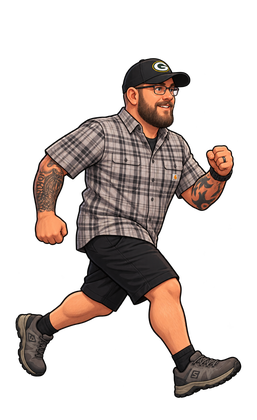
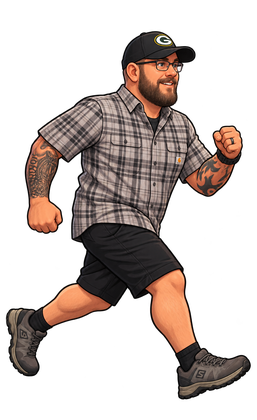
Scale Josh and Tyler consistently with original roster

Changed region(s): [[0.0, 0.0619, 0.9961, 0.9595]]

diff --git a/game.js b/game.js
@@ -28,7 +28,7 @@
   function updateCharacterCards(){document.querySelectorAll('.character-card').forEach(card=>{const id=card.dataset.character,locked=!canSelect(id),status=card.querySelector('.character-status');card.disabled=locked;card.classList.toggle('locked',locked);card.setAttribute('aria-disabled',String(locked));if(locked){card.setAttribute('aria-label',`${id==='josh'?'Josh Lane':'Tyler'}, locked. ${id==='josh'?'Defeat the final boss to unlock.':'Win the final boss stage twice to unlock.'}`);if(status)status.textContent=id==='josh'?'🔒 Beat the final boss':'🔒 Win the final twice'}else{card.setAttribute('aria-label',`Choose ${id==='josh'?'Josh Lane':id[0].toUpperCase()+id.slice(1)}`);if(status)status.textContent='Unlocked & ready'}})}
   function awardBossVictory(bossId='boss1'){if(bossId!=='boss1')return null;unlocks.boss1Wins=Math.min(999,unlocks.boss1Wins+1);const rule=unlockConfig.rules.find(item=>item.bossId===bossId&&item.victory===unlocks.boss1Wins&&!unlocks[item.character]);if(rule){unlocks[rule.character]=true;pendingUnlock=rule.character;writeUnlocks(unlocks);updateCharacterCards();return rule}writeUnlocks(unlocks);return null}
   function showMenu(){running=false;updateCharacterCards();const prompt=document.getElementById('unlock-prompt');if(pendingUnlock){const name=pendingUnlock==='josh'?'Josh Lane':'Tyler';prompt.textContent=`${name} is unlocked — choose your new Safety Bro!`;prompt.hidden=false;pendingUnlock=''}else prompt.hidden=true;show('menu')}
-  function load(){characters.forEach(c=>poses.forEach(p=>{const img=new Image();img.src=`${c}-${p}.png?v=${c==='josh'||c==='tyler'?10:4}`;assets[`${c}-${p}`]=img}));const boss=new Image();boss.src='boss-final-intruder.png?v=7';assets.boss=boss;updateCharacterCards()}
+  function load(){characters.forEach(c=>poses.forEach(p=>{const img=new Image();img.src=`${c}-${p}.png?v=${c==='josh'||c==='tyler'?11:4}`;assets[`${c}-${p}`]=img}));const boss=new Image();boss.src='boss-final-intruder.png?v=7';assets.boss=boss;updateCharacterCards()}
   levels.forEach((stage,i)=>{stage.powerups=[{x:Math.min(stage.width-650,1180+i*170),y:315,type:i%2?'hardhat':'shield',got:false}];stage.secrets=i<3?[{x:Math.min(stage.width-900,2480+i*260),y:500,w:115,h:100,found:false}]:[]});
   function fresh(src){return {...src,platforms:src.platforms.map(x=>({...x})),movingPlatforms:(src.movingPlatforms||[]).map(x=>({...x})),radios:src.radios.map(x=>({...x,got:false})),hazards:src.hazards.map(x=>({...x})),enemies:src.enemies.map(x=>({...x,alive:true})),vests:src.vests.map(x=>({...x,got:false})),powerups:(src.powerups||[]).map(x=>({...x,got:false})),secrets:(src.secrets||[]).map(x=>({...x,found:false})),boss:src.boss?{...src.boss,alive:true,hp:src.boss.maxHp,shotTimer:1.5}:null,projectiles:[],exit:{...src.exit}}}
   function sizePlayer(big,keepFeet=true){const feet=player.y+player.h;player.big=big;player.w=big?92:66;player.h=big?150:105;if(keepFeet)player.y=feet-player.h}

diff --git a/index.html b/index.html
@@ -41,11 +41,11 @@
           <strong>NICK</strong><small>Quick &amp; Alert</small>
         </button>
         <button class="character-card locked" data-character="josh" disabled aria-disabled="true" aria-label="Josh Lane, locked. Defeat the final boss to unlock.">
-          <img src="josh-idle.png?v=10" alt="Josh Lane game character">
+          <img src="josh-idle.png?v=11" alt="Josh Lane game character">
           <strong>JOSH LANE</strong><small class="character-status">🔒 Beat the final boss</small>
         </button>
         <button class="character-card locked" data-character="tyler" disabled aria-disabled="true" aria-label="Tyler, locked. Win the final boss stage twice to unlock.">
-          <img src="tyler-idle.png?v=10" alt="Tyler game character">
+          <img src="tyler-idle.png?v=11" alt="Tyler game character">
           <strong>TYLER</strong><small class="character-status">🔒 Win the final twice</small>
         </button>
       </div>
@@ -81,6 +81,6 @@
     </section>
   </main>
   <footer>⚡ <a href="https://venmo.com/u/MTA-7777" target="_blank" rel="noopener">Buy Mike a C4 · @MTA-7777</a></footer>
-  <script src="game.js?v=10"></script>
+  <script src="game.js?v=11"></script>
 </body>
 </html>
